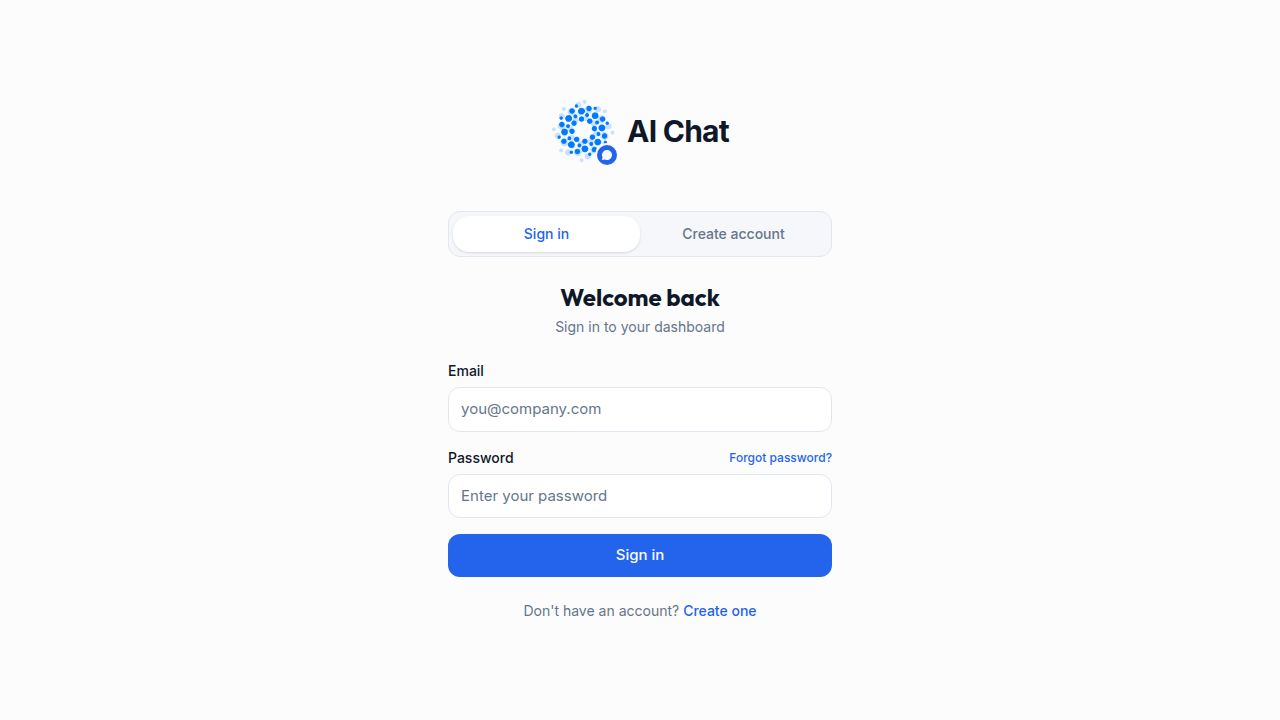
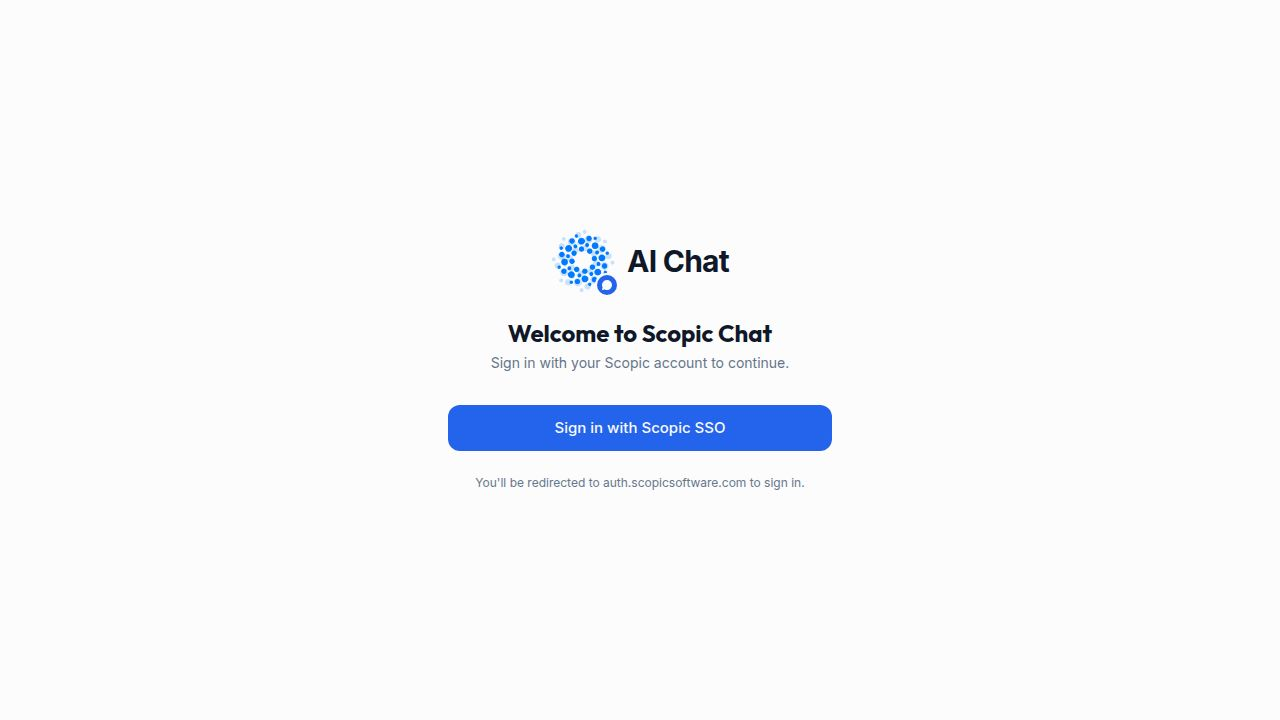
Task #133: Connect Teamwork via OAuth2
Replaces the manual API-token connection flow for Teamwork with OAuth2,
mirroring the existing Zoho one-click pattern.

Server:
- New route artifacts/api-server/src/routes/teamwork-oauth.ts:
  GET /api/teamwork/auth-url + GET /api/teamwork/callback, with a
  crypto-random state nonce, TTL, and one-time consumption.
  Uses Teamwork Launchpad authorize + token endpoints, then persists
  { accessToken } and the per-user site URL (from installation.apiEndPoint)
  via saveUserCredentials.
- New artifacts/api-server/src/services/teamworkTokenManager.ts exposing
  getTeamworkCredentials(userId). Teamwork Launchpad does not issue a
  refresh token, so the manager is a thin read of the encrypted row —
  deviates from the Zoho refresh+cache pattern because the upstream
  protocol doesn't support it. Revoked tokens are detected via 401/403
  on API calls.
- teamworkService.ts switched from Basic auth (apiToken) to Bearer.
  401/403 from category fetches, person lookup, and /me.json all
  surface a "reconnect Teamwork" message in the chat reply.
- listUserConnections now marks legacy Teamwork rows (shaped
  { apiToken }) as not-connected so the UI prompts users to reconnect
  via OAuth.
- Router wired in routes/index.ts.

Client:
- Teamwork provider in connect-service.ts is now oauth: true with no
  manual fields.
- TEAMWORK_OAUTH_ERROR_MESSAGES, TEAMWORK_OAUTH_SUCCESS_MESSAGE,
  teamwork branch in consumeOAuthCallbackMessages, and
[…]

diff --git a/artifacts/api-server/src/lib/credential-store.ts b/artifacts/api-server/src/lib/credential-store.ts
@@ -70,17 +70,33 @@ export async function listUserConnections(userId: number) {
     .select({
       provider: userCredentials.provider,
       instanceUrl: userCredentials.instanceUrl,
+      credentialsEncrypted: userCredentials.credentialsEncrypted,
       createdAt: userCredentials.createdAt,
       updatedAt: userCredentials.updatedAt,
     })
     .from(userCredentials)
     .where(eq(userCredentials.userId, userId));
 
-  return creds.map((c) => ({
-    provider: c.provider,
-    instanceUrl: c.instanceUrl,
-    connected: true,
-    connectedAt: c.createdAt,
-    updatedAt: c.updatedAt,
-  }));
+  return creds.map((c) => {
+    // Teamwork was migrated from API-token auth to OAuth2. Legacy rows
+    // (credentials shaped { apiToken }) cannot be used by the OAuth client,
+    // so they must show as not-connected so the user is prompted to
+    // reconnect via OAuth.
+    let connected = true;
+    if (c.provider === "teamwork") {
+      try {
+        const decoded = JSON.parse(decrypt(c.credentialsEncrypted)) as Record<string, unknown>;
+        connected = typeof decoded.accessToken === "string" && decoded.accessToken.length > 0;
+      } catch {
+        connected = false;
+      }
+    }
+    return {
+      provider: c.provider,
+      instanceUrl: c.instanceUrl,
+      connected,
+      connectedAt: c.createdAt,
+      updatedAt: c.updatedAt,
+    };
+  });
 }

diff --git a/artifacts/api-server/src/services/teamworkService.ts b/artifacts/api-server/src/services/teamworkService.ts
@@ -177,6 +177,10 @@ async function resolveTeamworkPerson(siteUrl: string, apiToken: string, term: st
     }
     return result;
   } catch (err) {
+    const status = (err as { response?: { status?: number } })?.response?.status;
+    if (status === 401 || status === 403) {
+      throw err;
+    }
     console.error("Teamwork person lookup failed:", (err as Error).message);
     return { matches: [], lookupSucceeded: false };
   }
@@ -253,7 +257,11 @@ async function fetchCurrentUserId(siteUrl: string, apiToken: string): Promise<nu
     const response = await client.get("/me.json");
     const person = response.data?.person || response.data?.account || response.data;
     return (person?.id as number) || null;
-  } catch {
+  } catch (err) {
+    const status = (err as { response?: { status?: number } })?.response?.status;
+    if (status === 401 || status === 403) {
+      throw err;
+    }
     return null;
   }
 }